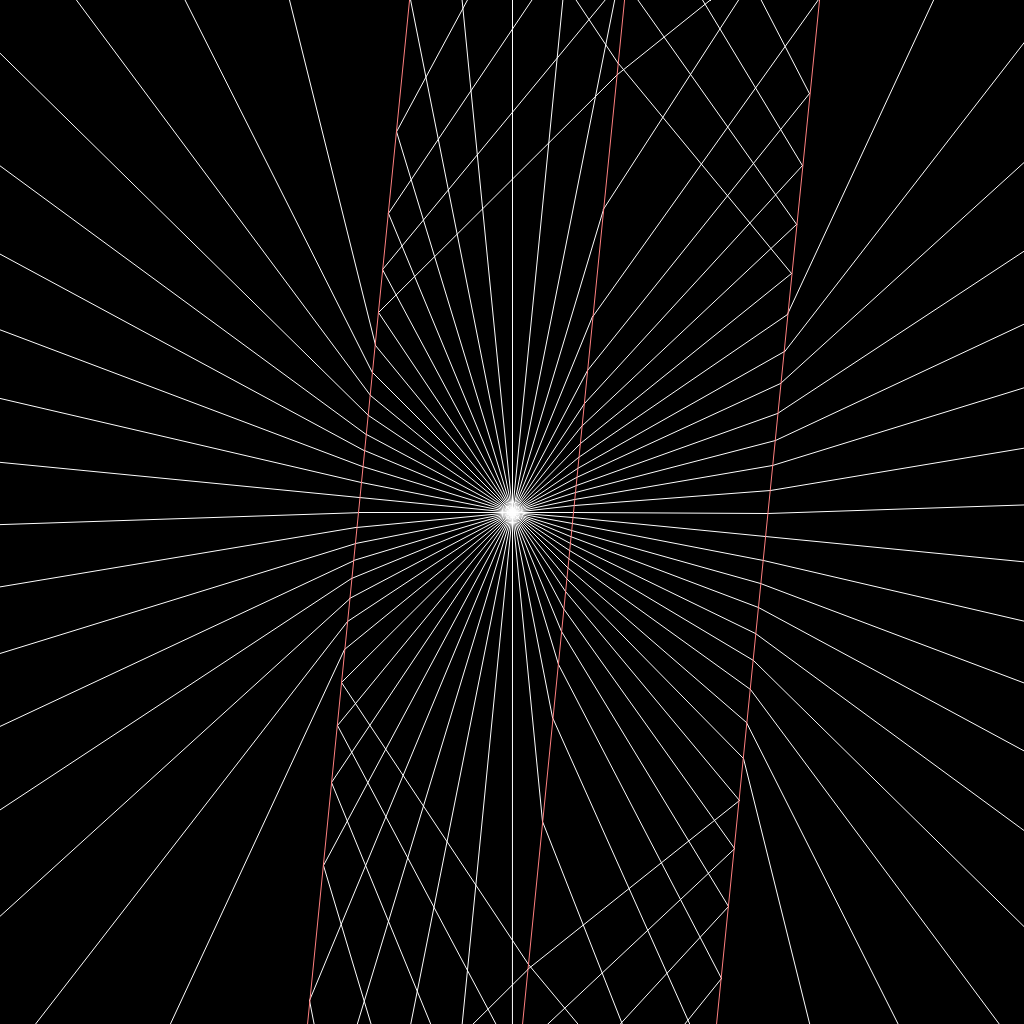
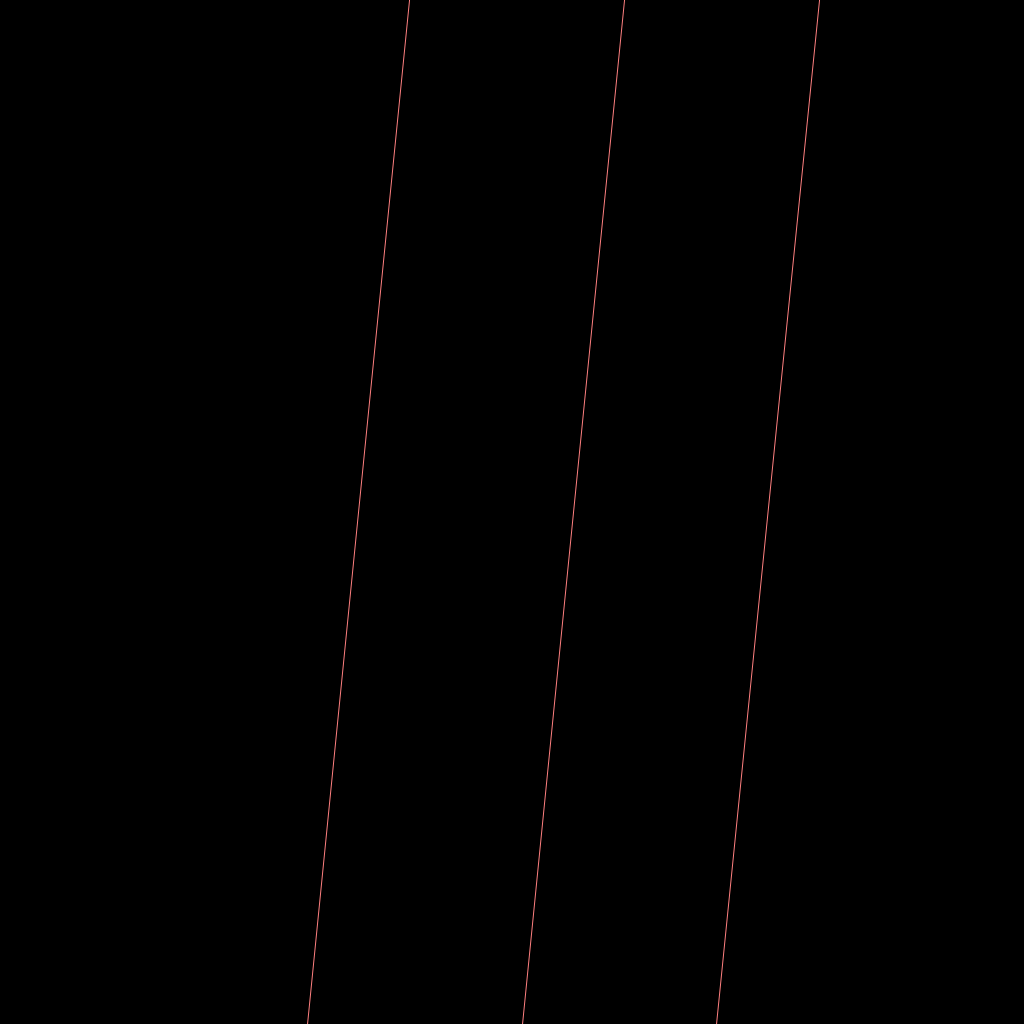
BigF to-string rounding errors, switch to astro-float

diff --git a/src/math_things/vec2.rs b/src/math_things/vec2.rs
@@ -1,6 +1,6 @@
 use std::{
     fmt::Display,
-    ops::{Add, Div, Mul, Sub},
+    ops::{Add, Div, Mul, Neg, Sub},
 };
 
 use perf_tracer::trace_op;
@@ -11,6 +11,14 @@ use crate::{
     math_things::rational::{IRat, Precision, URat},
 };
 
+#[derive(Debug, Clone, Copy, PartialEq, Eq)]
+pub enum Quadrant {
+    First,
+    Second,
+    Third,
+    Fourth,
+}
+
 #[derive(Clone, PartialEq, Eq)]
 pub struct Vec2 {
     pub x: IRat,
@@ -19,13 +27,13 @@ pub struct Vec2 {
 
 impl std::fmt::Debug for Vec2 {
     fn fmt(&self, f: &mut std::fmt::Formatter<'_>) -> std::fmt::Result {
-        write!(f, "{self}")
+        write!(f, "({:?}, {:?})", self.x, self.y)
     }
 }
 
 impl Display for Vec2 {
     fn fmt(&self, f: &mut std::fmt::Formatter<'_>) -> std::fmt::Result {
-        write!(f, "({:?}, {:?})", self.x, self.y)
+        write!(f, "({}, {})", self.x, self.y)
     }
 }
 
@@ -57,9 +65,18 @@ impl Vec2 {
     }
 
     /// Returns `(self.x, self.y)` as their float representations
-    #[trace_function("Vec2::to_f64s")]
+    #[trace_function("Vec2::$f")]
     pub fn to_f64s(&self) -> (f64, f64) {
         (self.x.to_f64(), self.y.to_f64())
+    }
+
+    pub fn quadrant(&self) -> Quadrant {
+        match (self.x >= IRat::zero(), self.y >= IRat::zero()) {
+            (true, true) => Quadrant::First,
+            (false, true) => Quadrant::Second,
+            (false, false) => Quadrant::Third,
+            (true, false) => Quadrant::Fourth,
+        }
     }
 
     pub fn dot(&self, other: &Self) -> IRat {
@@ -81,7 +98,7 @@ impl Vec2 {
     }
 
     /// IMPRECISE
-    #[trace_function("Vec2::magnitude")]
+    #[trace_function("Vec2::$f")]
     pub fn magnitude(&self, prec: Precision) -> IRat {
         self.sqr_magnitude().sqrt(prec)
     }
@@ -99,19 +116,19 @@ impl Vec2 {
 
     /// IMPRECISE
     ///
-    /// The returned value will not be normalized.
+    /// The returned value will not be exactly normalized.
     /// If you want an exactly normalized vector without maintaining exact direction, use
-    /// `nearby_normalized`
+    /// `normalize_exact_magnitude`
     #[must_use]
-    #[trace_function("Vec2::normalized")]
-    pub fn normalized(&self, prec: Precision) -> Self {
+    #[trace_function("Vec2::$f")]
+    pub fn normalize_exact_dir(&self, prec: Precision) -> Self {
         self / self.magnitude(prec)
     }
 
     /// Returns this vector reflected across `normal`
     /// * `self` and `normal` should be unit vectors
     #[must_use]
-    #[trace_function("Vec2::reflected")]
+    #[trace_function("Vec2::$f")]
     pub fn reflected(&self, normal: &Self) -> Vec2 {
         // https://en.wikipedia.org/wiki/Specular_reflection#Vector_formulation
         self - IRat::from(2u64) * normal * normal.dot(self)
@@ -120,19 +137,37 @@ impl Vec2 {
     /// Performs `self ^ other`, otherwise known as the 2d wedge product or the perp dot product:
     ///
     /// https://mathworld.wolfram.com/PerpDotProduct.html
-    #[trace_function("Vec2::cross")]
+    #[trace_function("Vec2::$f")]
     pub fn cross(&self, other: &Self) -> IRat {
         &self.x * &other.y - &self.y * &other.x
     }
 
-    /// Finds a point nearby `self` on the unit sphere
-    #[trace_function("Vec2::nearby_normalized")]
-    pub fn nearby_normalized(&self, prec: Precision) -> Vec2 {
-        Self::nearby_normalized_inner(self, prec)
+    /// Finds a point nearby `self` that lies on the unit circle, within `prec` for
+    #[trace_function("Vec2::$f")]
+    pub fn normalize_exact_magnitude(&self, prec: Precision) -> Vec2 {
+        let mut self_reflected = self.clone();
+        if self.x < IRat::zero() {
+            self_reflected.x = self_reflected.x.neg();
+        }
+        if self.y < IRat::zero() {
+            self_reflected.y = self_reflected.y.neg();
+        }
+
+        let mut res = Self::normalize_exact_magnitude_inner(&self_reflected, prec);
+        if self.x < IRat::zero() {
+            res.x = res.x.neg();
+        }
+        if self.y < IRat::zero() {
+            res.y = res.y.neg();
+        }
+
+        debug_assert_eq!(res.sqr_magnitude(), IRat::one());
+        println!("{} -> {}", self, res);
+        res
     }
 
     /// Requires `pt` to be in the first quadrant
-    fn nearby_normalized_inner(pt: &Vec2, prec: Precision) -> Vec2 {
+    fn normalize_exact_magnitude_inner(pt: &Vec2, prec: Precision) -> Vec2 {
         // https://en.wikipedia.org/wiki/Pythagorean_triple#Rational_points_on_a_unit_circle
         // Using the parametric equation, an appropriately accurate value of t can be found
         // for a point P in quadrant 1 by a binary search:
@@ -153,14 +188,39 @@ impl Vec2 {
         // * Since `P(0)=(1,0)`, `dist(P(1/2^n), P(0))` is approximately `P(1/2^n).y`
         // `P(t).y = 2t / (1+t^2)` and near t=0, `P(t).x ~ 2t` so `P(1/2^n).y ~ 1/2^(n-1)`
         // * To conclude, the worst case precision for `n` steps is approximately `1/2 ^ (n-1)`
-        // *
+        // * To find the proper `n` steps for our precision `1/2^prec`, we need a value `n` that satisfies the inequality:
+        // 1/2 ^ prec <= Error(n) <= 1/2 ^ (n-1)
+        // * So, `n = prec + 1` works fine
 
-        for _ in 0..16 {
+        // for _ in 0..prec.0 + 1 {
+        for _ in 0..3 {
+            let avg = (&a + &b) / IRat::from(2);
+            let avg_squared = &avg * &avg;
+            let one_plus_avg_squared = IRat::one() + &avg_squared;
+            let avg_pt = Vec2::new(
+                (IRat::one() - &avg_squared) / &one_plus_avg_squared,
+                (IRat::from(2) * &avg) / &one_plus_avg_squared,
+            );
+            let avg_dist = avg_pt.sqr_dist(pt);
             match b_dist > a_dist {
-                true => todo!(),
-                false => todo!(),
+                true => {
+                    b = avg;
+                    b_pt = avg_pt;
+                    b_dist = avg_dist;
+                }
+                false => {
+                    a = avg;
+                    a_pt = avg_pt;
+                    a_dist = avg_dist;
+                }
             }
         }
+
+        println!("  {:.10}..{:.10}", a, b);
+        println!("  {:?}..{:?}", a, b);
+        println!("  {:10}..{:10}", a_dist, b_dist);
+        println!("  {}..{}", a_pt, b_pt);
+        println!("  {:?}..{:?}", a_pt, b_pt);
 
         match b_dist > a_dist {
             true => a_pt,

diff --git a/src/math_things/rational.rs b/src/math_things/rational.rs
@@ -427,7 +427,7 @@ impl URat {
     /// Panics if the denominator is zero
     #[must_use]
     #[track_caller]
-    #[trace_function("URat::reduced")]
+    #[trace_function("URat::$f")]
     pub fn reduced(&self) -> Self {
         assert!(!self.den.is_zero());
         let divisor = UBig::gcd(self.num.clone(), self.den.clone());
@@ -493,7 +493,7 @@ impl URat {
     }
 
     /// IMPRECISE
-    #[trace_function("URat::sqrt")]
+    #[trace_function("URat::$f")]
     pub fn sqrt(&self, prec: Precision) -> Self {
         sqrt_algorithms::sqrt_herons_method(self, prec)
     }
@@ -501,7 +501,7 @@ impl URat {
     /// Discards the sign
     ///
     /// A non-normal `x` will result in `0` being returned
-    #[trace_function("URat::from_f64")]
+    #[trace_function("URat::$f")]
     pub fn from_f64(x: f64) -> URat {
         match x.classify() {
             // FIXME: Should this panic instead?
@@ -542,7 +542,7 @@ impl URat {
     }
 
     /// Discards the sign
-    #[trace_function("URat::from_fbig")]
+    #[trace_function("URat::$f")]
     pub fn from_fbig<RoundingMode: Round, const BASE: u64>(x: FBig<RoundingMode, BASE>) -> URat {
         IRat::from_fbig(x).abs_unsigned()
     }
@@ -553,7 +553,24 @@ impl URat {
 
     /// Converts `self` into a big float, with possible loss
     pub fn to_fbig(&self) -> FBig {
-        self.num.to_fbig() / self.den.to_fbig()
+        let res = self.num.to_fbig() / self.den.to_fbig();
+        println!(
+            "\nTO_FBIG: {} / {} = {}\n",
+            self.num
+                .to_fbig()
+                .with_precision(64)
+                .value()
+                .to_decimal()
+                .value(),
+            self.den
+                .to_fbig()
+                .with_precision(64)
+                .value()
+                .to_decimal()
+                .value(),
+            res.clone().with_precision(64).value().to_decimal().value(),
+        );
+        res
     }
 }
 
@@ -572,7 +589,7 @@ impl From<u64> for URat {
 impl Add<&URat> for &URat {
     type Output = URat;
 
-    #[trace_function("URat::add")]
+    #[trace_function("URat::$f")]
     fn add(self, rhs: &URat) -> Self::Output {
         // a/b + c/d = (ad + bc) / bd
         let x = trace_op("addition_step", || URat {
@@ -587,7 +604,7 @@ derive_binop_by_value!(URat, Add, add, +);
 impl Sub<&URat> for &URat {
     type Output = URat;
 
-    #[trace_function("URat::sub")]
+    #[trace_function("URat::$f")]
     fn sub(self, rhs: &URat) -> Self::Output {
         // a/b - c/d = (ad - bc) / bd
         URat {
@@ -602,7 +619,7 @@ derive_binop_by_value!(URat, Sub, sub, -);
 impl Mul<&URat> for &URat {
     type Output = URat;
 
-    #[trace_function("URat::mul")]
+    #[trace_function("URat::$f")]
     fn mul(self, rhs: &URat) -> Self::Output {
         URat {
             num: &self.num * &rhs.num,

diff --git a/src/math_things/raytracer_2d.rs b/src/math_things/raytracer_2d.rs
@@ -197,7 +197,10 @@ impl Scene {
 
         if let Some(intersection) = nearest_intersection {
             let boundary = &self.boundaries[intersection.boundary];
-            let normal_rhs = boundary.placement.normal_rhs();
+            let normal_rhs = boundary
+                .placement
+                .normal_rhs()
+                .normalize_exact_magnitude(PREC);
             let coming_from_lhs = normal_rhs.dot(&ray.dir) >= IRat::zero();
 
             let (leaving_ior, entering_ior, aligned_normal) = match coming_from_lhs {
@@ -205,8 +208,8 @@ impl Scene {
                 false => (&boundary.rhs_ior, &boundary.lhs_ior, normal_rhs),
             };
             let new_dir = intersect2d::refract_ray(
-                &ray.dir.normalized(PREC),
-                &aligned_normal.normalized(PREC),
+                &ray.dir.normalize_exact_magnitude(PREC),
+                &aligned_normal,
                 leaving_ior,
                 entering_ior,
             );
@@ -298,11 +301,12 @@ fn render_scene_inner(scene: &Scene) {
     for ray_idx in 0..ray_ct {
         // let dir = Vec2::new(0.1, (ray_idx as f64 - ray_ct as f64 / 2.) / 100.);
         let angle = 2. * std::f64::consts::PI * ray_idx as f64 / ray_ct as f64;
-        let dir = Vec2::new(angle.cos(), angle.sin());
+        let dir = Vec2::new(angle.cos(), angle.sin()).normalize_exact_magnitude(PREC);
         let mut ray = Ray2 {
             pos: scene.light.clone(),
             dir,
         };
+        continue;
 
         for _ in 0..4 {
             match scene.step_ray(&ray) {
@@ -328,6 +332,4 @@ fn render_scene_inner(scene: &Scene) {
     }
 
     img.save("raytracer_2d_result.png").unwrap();
-
-    print_trace_time(&perf_tracer::PrintOpts::default());
 }

diff --git a/src/math_things/bigint.rs b/src/math_things/bigint.rs
@@ -90,7 +90,7 @@ impl UBig {
     }
 
     #[track_caller]
-    #[trace_function("UBig::div_rem")]
+    #[trace_function("UBig::$f")]
     pub fn div_rem(&self, rhs: &Self) -> (UBig, UBig) {
         div_algorithms::div_rem_binary_long(self, rhs)
     }
@@ -257,7 +257,7 @@ impl UBig {
         self.count_ones() == 1
     }
 
-    #[trace_function("UBig::gcd")]
+    #[trace_function("UBig::$f")]
     pub fn gcd(self, other: Self) -> UBig {
         if self.is_zero() && other.is_zero() {
             return UBig::one();
@@ -582,7 +582,7 @@ impl ShrAssign<usize> for UBig {
 impl Mul<&UBig> for &UBig {
     type Output = UBig;
 
-    #[trace_function("UBig::mul")]
+    #[trace_function("UBig::$f")]
     fn mul(self, rhs: &UBig) -> Self::Output {
         mul_algorithms::mul_basic(self, rhs)
     }
@@ -593,7 +593,7 @@ impl Div<&UBig> for &UBig {
     type Output = UBig;
 
     #[inline]
-    #[trace_function("UBig::div")]
+    #[trace_function("UBig::$f")]
     fn div(self, rhs: &UBig) -> Self::Output {
         self.div_rem(rhs).0
     }
@@ -604,7 +604,7 @@ impl Rem<&UBig> for &UBig {
     type Output = UBig;
 
     #[inline]
-    #[trace_function("UBig::rem")]
+    #[trace_function("UBig::$f")]
     fn rem(self, rhs: &UBig) -> Self::Output {
         self.div_rem(rhs).1
     }

diff --git a/perf_tracer_macros/src/lib.rs b/perf_tracer_macros/src/lib.rs
@@ -5,8 +5,15 @@ use syn::{ItemFn, LitStr, parse_macro_input};
 #[proc_macro_attribute]
 pub fn trace_function(attr: TokenStream, input: TokenStream) -> TokenStream {
     let input: ItemFn = parse_macro_input!(input as ItemFn);
-    let trace_name =
-        syn::parse::<LitStr>(attr).map_or_else(|_| input.sig.ident.to_string(), |x| x.value());
+    let func_name = input.sig.ident.to_string();
+    let trace_name = syn::parse::<LitStr>(attr).map_or_else(
+        |_| func_name.clone(),
+        |x| {
+            let s = x.value();
+            let s = s.replace("$f", &func_name);
+            s
+        },
+    );
 
     let ItemFn {
         attrs,

diff --git a/src/math_things/vec3.rs b/src/math_things/vec3.rs
@@ -94,7 +94,7 @@ impl Vec3 {
     /// Returns this vector reflected across `normal`
     /// * `self` and `normal` should be unit vectors
     #[must_use]
-    #[trace_function("Vec3::reflected")]
+    #[trace_function("Vec3::$f")]
     pub fn reflected(&self, normal: &Self) -> Vec3 {
         // https://en.wikipedia.org/wiki/Specular_reflection#Vector_formulation
         self - IRat::from(2u64) * normal * normal.dot(self)

diff --git a/src/main.rs b/src/main.rs
@@ -3,8 +3,8 @@ use prog_fund_3_things::*;
 fn main() {
     // prefix_ops::start();
     // eight_queens::start();
-    // math_things::raytracer_2d::start();
-    math_things::raytracer_3d::start(true);
+    math_things::raytracer_2d::start();
+    // math_things::raytracer_3d::start(true);
 
     perf_tracer::print_trace_time(&perf_tracer::PrintOpts::default());
 }
